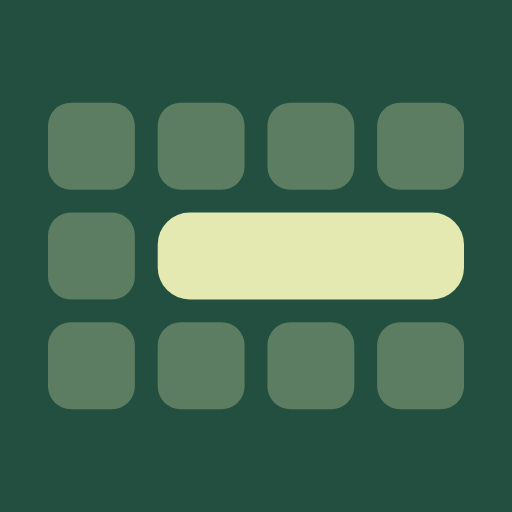
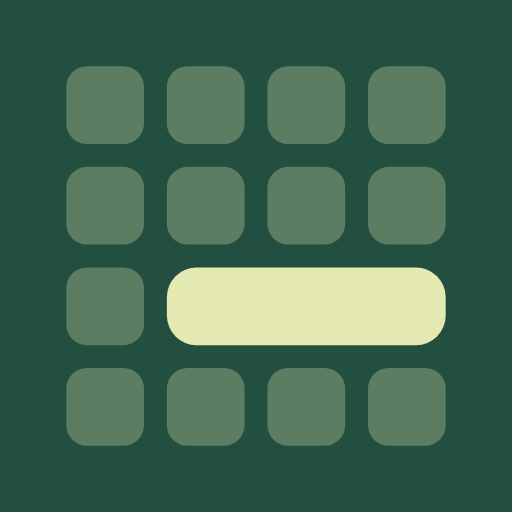
Logga: 4 × 4 med större rutor
Samma slutliga val som i appen (helggo#39): originalets 4 × 4 med
dagar 17 i stället för 14. Märket, ikonerna och skärmbilden är
uppdaterade.

Claude-Session: https://claude.ai/code/session_016s4KKgBuY99eA6zm4ghu83

diff --git a/integritet/index.html b/integritet/index.html
@@ -107,17 +107,21 @@ details p{padding-bottom:16px}
   <symbol id="helgo-mark" viewBox="0 0 1024 1024">
     <rect width="1024" height="1024" fill="#234F40"/>
     <g fill="#5D7D62">
-      <rect x="96.0" y="205.7" width="173.7" height="173.7" rx="45.7"/>
-      <rect x="315.4" y="205.7" width="173.7" height="173.7" rx="45.7"/>
-      <rect x="534.9" y="205.7" width="173.7" height="173.7" rx="45.7"/>
-      <rect x="754.3" y="205.7" width="173.7" height="173.7" rx="45.7"/>
-      <rect x="96.0" y="425.1" width="173.7" height="173.7" rx="45.7"/>
-      <rect x="96.0" y="644.6" width="173.7" height="173.7" rx="45.7"/>
-      <rect x="315.4" y="644.6" width="173.7" height="173.7" rx="45.7"/>
-      <rect x="534.9" y="644.6" width="173.7" height="173.7" rx="45.7"/>
-      <rect x="754.3" y="644.6" width="173.7" height="173.7" rx="45.7"/>
+      <rect x="132.6" y="132.6" width="155.4" height="155.4" rx="41.1"/>
+      <rect x="333.7" y="132.6" width="155.4" height="155.4" rx="41.1"/>
+      <rect x="534.9" y="132.6" width="155.4" height="155.4" rx="41.1"/>
+      <rect x="736.0" y="132.6" width="155.4" height="155.4" rx="41.1"/>
+      <rect x="132.6" y="333.7" width="155.4" height="155.4" rx="41.1"/>
+      <rect x="333.7" y="333.7" width="155.4" height="155.4" rx="41.1"/>
+      <rect x="534.9" y="333.7" width="155.4" height="155.4" rx="41.1"/>
+      <rect x="736.0" y="333.7" width="155.4" height="155.4" rx="41.1"/>
+      <rect x="132.6" y="534.9" width="155.4" height="155.4" rx="41.1"/>
+      <rect x="132.6" y="736.0" width="155.4" height="155.4" rx="41.1"/>
+      <rect x="333.7" y="736.0" width="155.4" height="155.4" rx="41.1"/>
+      <rect x="534.9" y="736.0" width="155.4" height="155.4" rx="41.1"/>
+      <rect x="736.0" y="736.0" width="155.4" height="155.4" rx="41.1"/>
     </g>
-    <rect x="315.4" y="425.1" width="612.6" height="173.7" rx="64.0" fill="#E3E9B0"/>
+    <rect x="333.7" y="534.9" width="557.7" height="155.4" rx="59.4" fill="#E3E9B0"/>
   </symbol>
 </svg>
 

diff --git a/support/index.html b/support/index.html
@@ -107,17 +107,21 @@ details p{padding-bottom:16px}
   <symbol id="helgo-mark" viewBox="0 0 1024 1024">
     <rect width="1024" height="1024" fill="#234F40"/>
     <g fill="#5D7D62">
-      <rect x="96.0" y="205.7" width="173.7" height="173.7" rx="45.7"/>
-      <rect x="315.4" y="205.7" width="173.7" height="173.7" rx="45.7"/>
-      <rect x="534.9" y="205.7" width="173.7" height="173.7" rx="45.7"/>
-      <rect x="754.3" y="205.7" width="173.7" height="173.7" rx="45.7"/>
-      <rect x="96.0" y="425.1" width="173.7" height="173.7" rx="45.7"/>
-      <rect x="96.0" y="644.6" width="173.7" height="173.7" rx="45.7"/>
-      <rect x="315.4" y="644.6" width="173.7" height="173.7" rx="45.7"/>
-      <rect x="534.9" y="644.6" width="173.7" height="173.7" rx="45.7"/>
-      <rect x="754.3" y="644.6" width="173.7" height="173.7" rx="45.7"/>
+      <rect x="132.6" y="132.6" width="155.4" height="155.4" rx="41.1"/>
+      <rect x="333.7" y="132.6" width="155.4" height="155.4" rx="41.1"/>
+      <rect x="534.9" y="132.6" width="155.4" height="155.4" rx="41.1"/>
+      <rect x="736.0" y="132.6" width="155.4" height="155.4" rx="41.1"/>
+      <rect x="132.6" y="333.7" width="155.4" height="155.4" rx="41.1"/>
+      <rect x="333.7" y="333.7" width="155.4" height="155.4" rx="41.1"/>
+      <rect x="534.9" y="333.7" width="155.4" height="155.4" rx="41.1"/>
+      <rect x="736.0" y="333.7" width="155.4" height="155.4" rx="41.1"/>
+      <rect x="132.6" y="534.9" width="155.4" height="155.4" rx="41.1"/>
+      <rect x="132.6" y="736.0" width="155.4" height="155.4" rx="41.1"/>
+      <rect x="333.7" y="736.0" width="155.4" height="155.4" rx="41.1"/>
+      <rect x="534.9" y="736.0" width="155.4" height="155.4" rx="41.1"/>
+      <rect x="736.0" y="736.0" width="155.4" height="155.4" rx="41.1"/>
     </g>
-    <rect x="315.4" y="425.1" width="612.6" height="173.7" rx="64.0" fill="#E3E9B0"/>
+    <rect x="333.7" y="534.9" width="557.7" height="155.4" rx="59.4" fill="#E3E9B0"/>
   </symbol>
 </svg>
 

diff --git a/index.html b/index.html
@@ -181,17 +181,21 @@ a{color:var(--ink)}
   <symbol id="helgo-mark" viewBox="0 0 1024 1024">
     <rect width="1024" height="1024" fill="#234F40"/>
     <g fill="#5D7D62">
-      <rect x="96.0" y="205.7" width="173.7" height="173.7" rx="45.7"/>
-      <rect x="315.4" y="205.7" width="173.7" height="173.7" rx="45.7"/>
-      <rect x="534.9" y="205.7" width="173.7" height="173.7" rx="45.7"/>
-      <rect x="754.3" y="205.7" width="173.7" height="173.7" rx="45.7"/>
-      <rect x="96.0" y="425.1" width="173.7" height="173.7" rx="45.7"/>
-      <rect x="96.0" y="644.6" width="173.7" height="173.7" rx="45.7"/>
-      <rect x="315.4" y="644.6" width="173.7" height="173.7" rx="45.7"/>
-      <rect x="534.9" y="644.6" width="173.7" height="173.7" rx="45.7"/>
-      <rect x="754.3" y="644.6" width="173.7" height="173.7" rx="45.7"/>
+      <rect x="132.6" y="132.6" width="155.4" height="155.4" rx="41.1"/>
+      <rect x="333.7" y="132.6" width="155.4" height="155.4" rx="41.1"/>
+      <rect x="534.9" y="132.6" width="155.4" height="155.4" rx="41.1"/>
+      <rect x="736.0" y="132.6" width="155.4" height="155.4" rx="41.1"/>
+      <rect x="132.6" y="333.7" width="155.4" height="155.4" rx="41.1"/>
+      <rect x="333.7" y="333.7" width="155.4" height="155.4" rx="41.1"/>
+      <rect x="534.9" y="333.7" width="155.4" height="155.4" rx="41.1"/>
+      <rect x="736.0" y="333.7" width="155.4" height="155.4" rx="41.1"/>
+      <rect x="132.6" y="534.9" width="155.4" height="155.4" rx="41.1"/>
+      <rect x="132.6" y="736.0" width="155.4" height="155.4" rx="41.1"/>
+      <rect x="333.7" y="736.0" width="155.4" height="155.4" rx="41.1"/>
+      <rect x="534.9" y="736.0" width="155.4" height="155.4" rx="41.1"/>
+      <rect x="736.0" y="736.0" width="155.4" height="155.4" rx="41.1"/>
     </g>
-    <rect x="315.4" y="425.1" width="612.6" height="173.7" rx="64.0" fill="#E3E9B0"/>
+    <rect x="333.7" y="534.9" width="557.7" height="155.4" rx="59.4" fill="#E3E9B0"/>
   </symbol>
 </svg>
 
